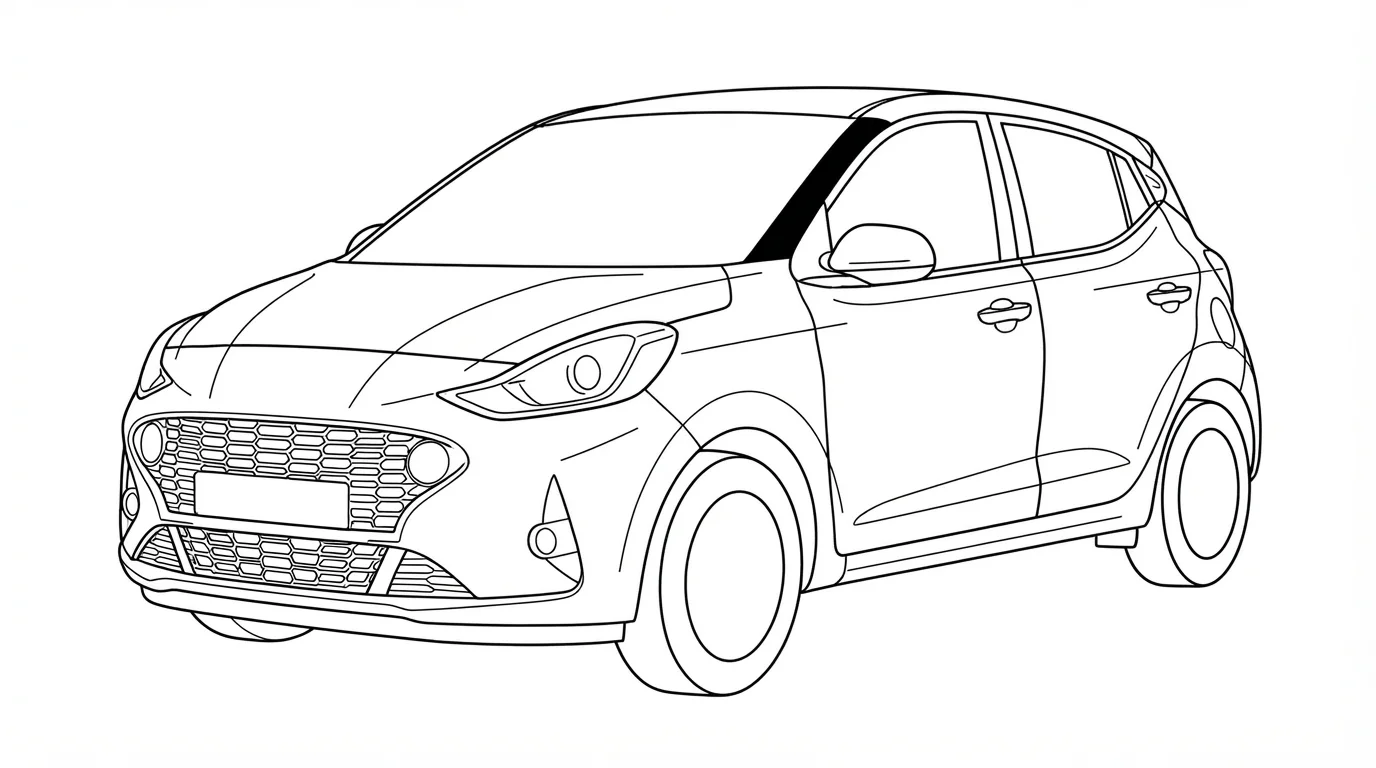
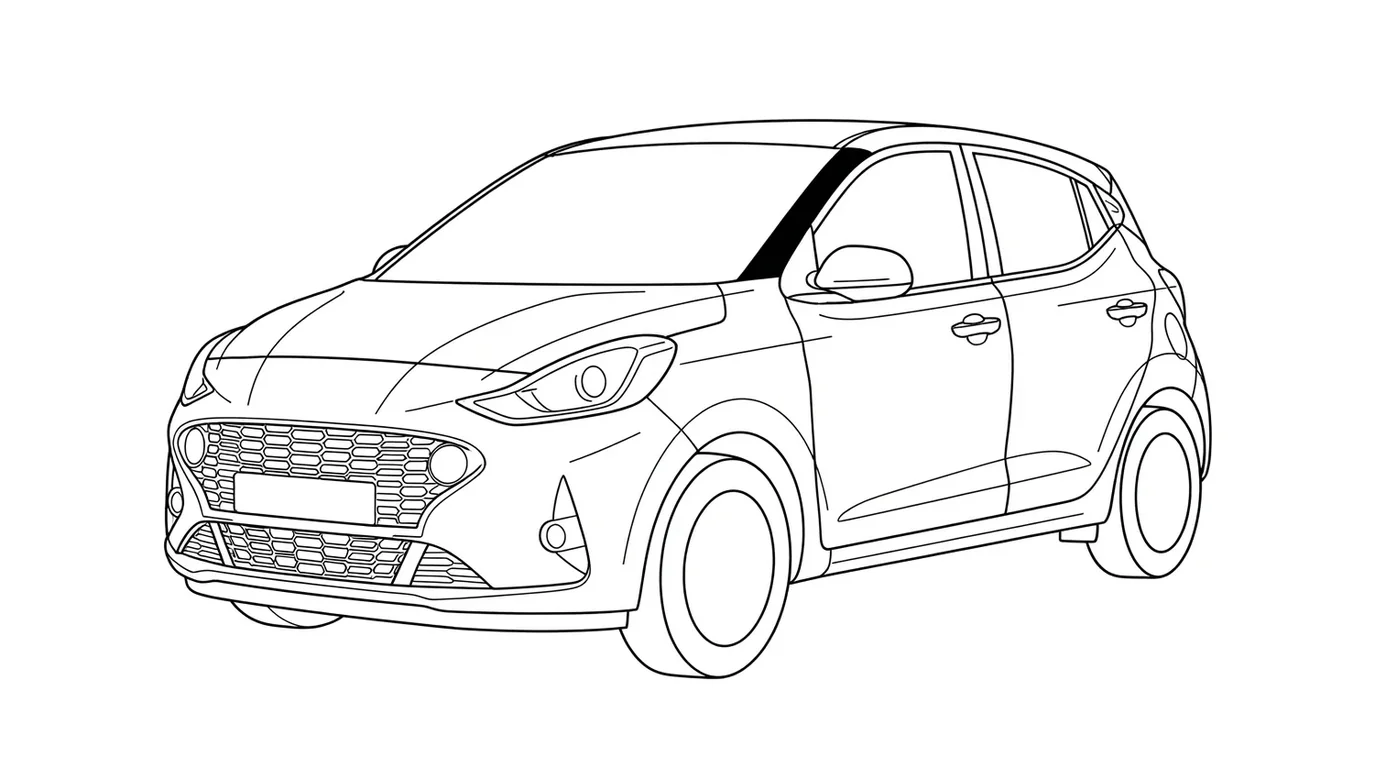
feat: kuratierte AutoFinder-Bilder normalisiert, Frontend-Workaround entfernt
Die eigentliche Ursache der inkonsistenten Fahrzeugbilder war das ASSET
selbst (schwankender Fahrzeuganteil an der Fläche + Rand), nicht der
Karten-Container. Backend-seitige Normalisierung ist jetzt die
Primärlösung (siehe auto-ki-backend, Branch
autofinder-image-normalization, app/autofinder_image_normalize.py).

- 16 kuratierte AutoFinder-Line-Art-Bilder (public/cars/autofinder/*.webp)
  in-place normalisiert (gleiches Skript wie die on-demand Assets im
  Backend) — Fahrzeuganteil/Zentrierung jetzt konsistent mit den
  on-demand-Bildern.
- ResultCard.tsx: der clientseitige Canvas-Workaround (imageFit.ts,
  useAutofitVehicleImage) entfernt. Da die Assets jetzt an der Quelle
  normalisiert sind, ist der Workaround überflüssig — kein CORS-/Fetch-
  Umweg mehr nötig, einfacher, robuster. Zurück zu einem einfachen
  <img src={k.image_url} ... object-contain>, wie von der Aufgabe verlangt
  ("Asset-Normalisierung ist die Primärlösung", kein CSS-/JS-Kaschieren).

KaufCheck, VerkaufsCheck, Parts, Ranking, Match, Preislogik, History
unangetastet.

Changed region(s): [[0.0625, 0.0938, 0.9375, 0.9062]]

diff --git a/src/components/autofinder/ResultCard.tsx b/src/components/autofinder/ResultCard.tsx
@@ -13,7 +13,6 @@ import {
   type AutoFinderKandidat,
 } from './logic'
 import CarPlaceholder from './CarPlaceholder'
-import { useAutofitVehicleImage } from './imageFit'
 
 const BUDGET_LABEL: Record<AutoFinderKandidat['budget_status'], string | null> = {
   IN_BUDGET: 'Im Budget',
@@ -49,10 +48,6 @@ export default function ResultCard({ k, rank, imagePending = false }: Props) {
   const hatEchtesBild = k.image_type === 'generated_cached' || k.image_type === 'curated'
   const showImg = k.image_url && !imgBroken && (hatEchtesBild || !imagePending)
   const zeigeSkeleton = imagePending && !hatEchtesBild && !imgBroken
-  // Vereinheitlicht Größe/Position des Fahrzeugs im Bild (siehe imageFit.ts) —
-  // reine Darstellung, betrifft nie image_url/image_type selbst. Bis das Ergebnis
-  // vorliegt oder falls es fehlschlägt, wird ganz normal k.image_url gezeigt.
-  const autofitBild = useAutofitVehicleImage(showImg ? k.image_url : null)
 
   function toKaufCheck() {
     stageKaufCheckPrefill(k)
@@ -72,7 +67,7 @@ export default function ResultCard({ k, rank, imagePending = false }: Props) {
               </div>
             ) : showImg ? (
               <img
-                src={autofitBild ?? k.image_url}
+                src={k.image_url}
                 alt={titel}
                 className="w-full h-full object-contain transition-opacity duration-300"
                 onError={() => setImgBroken(true)}
